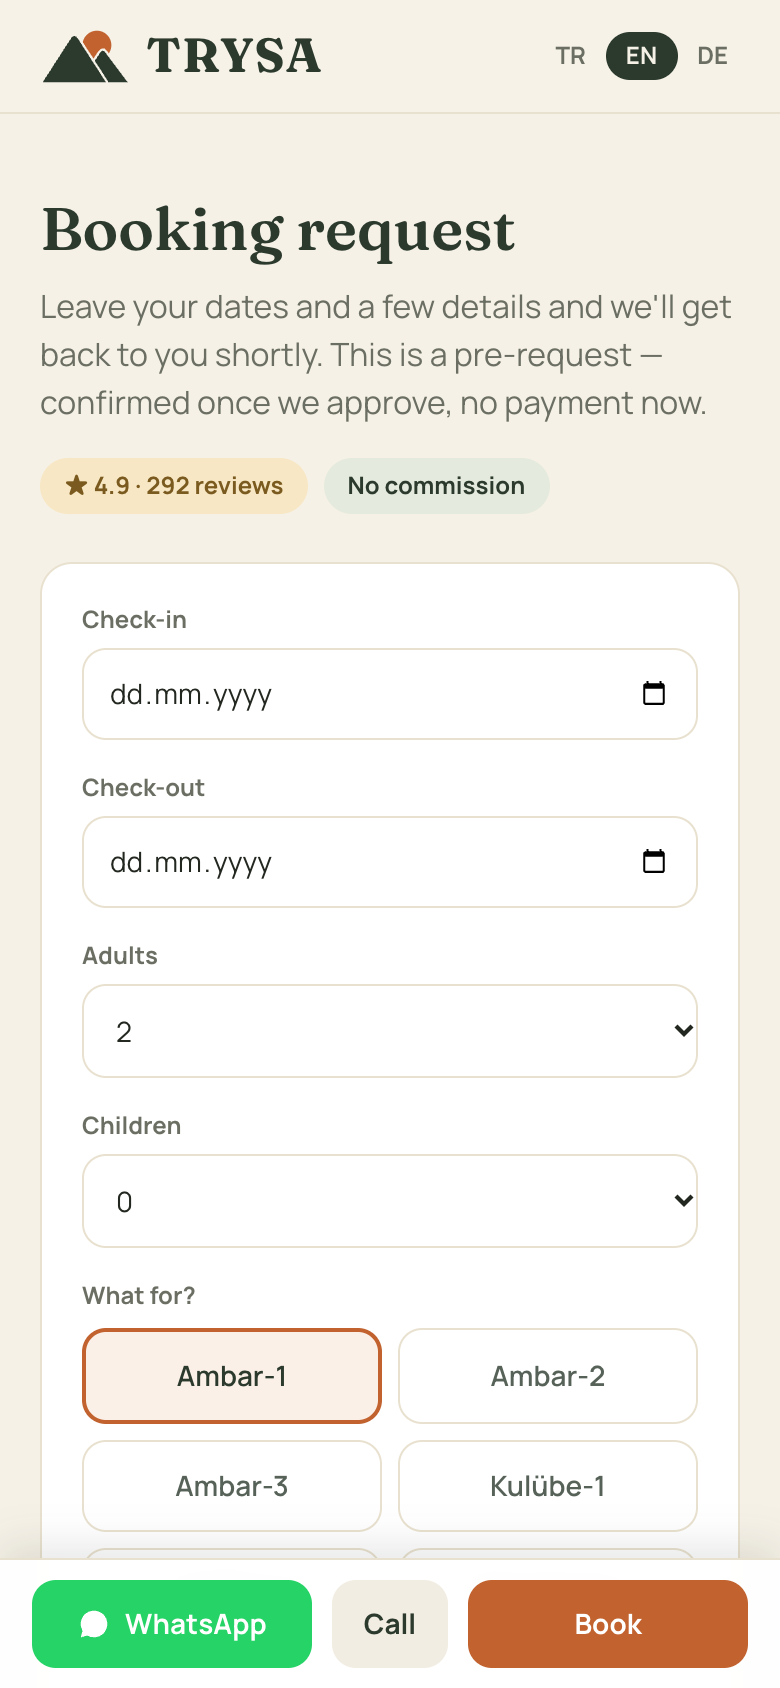
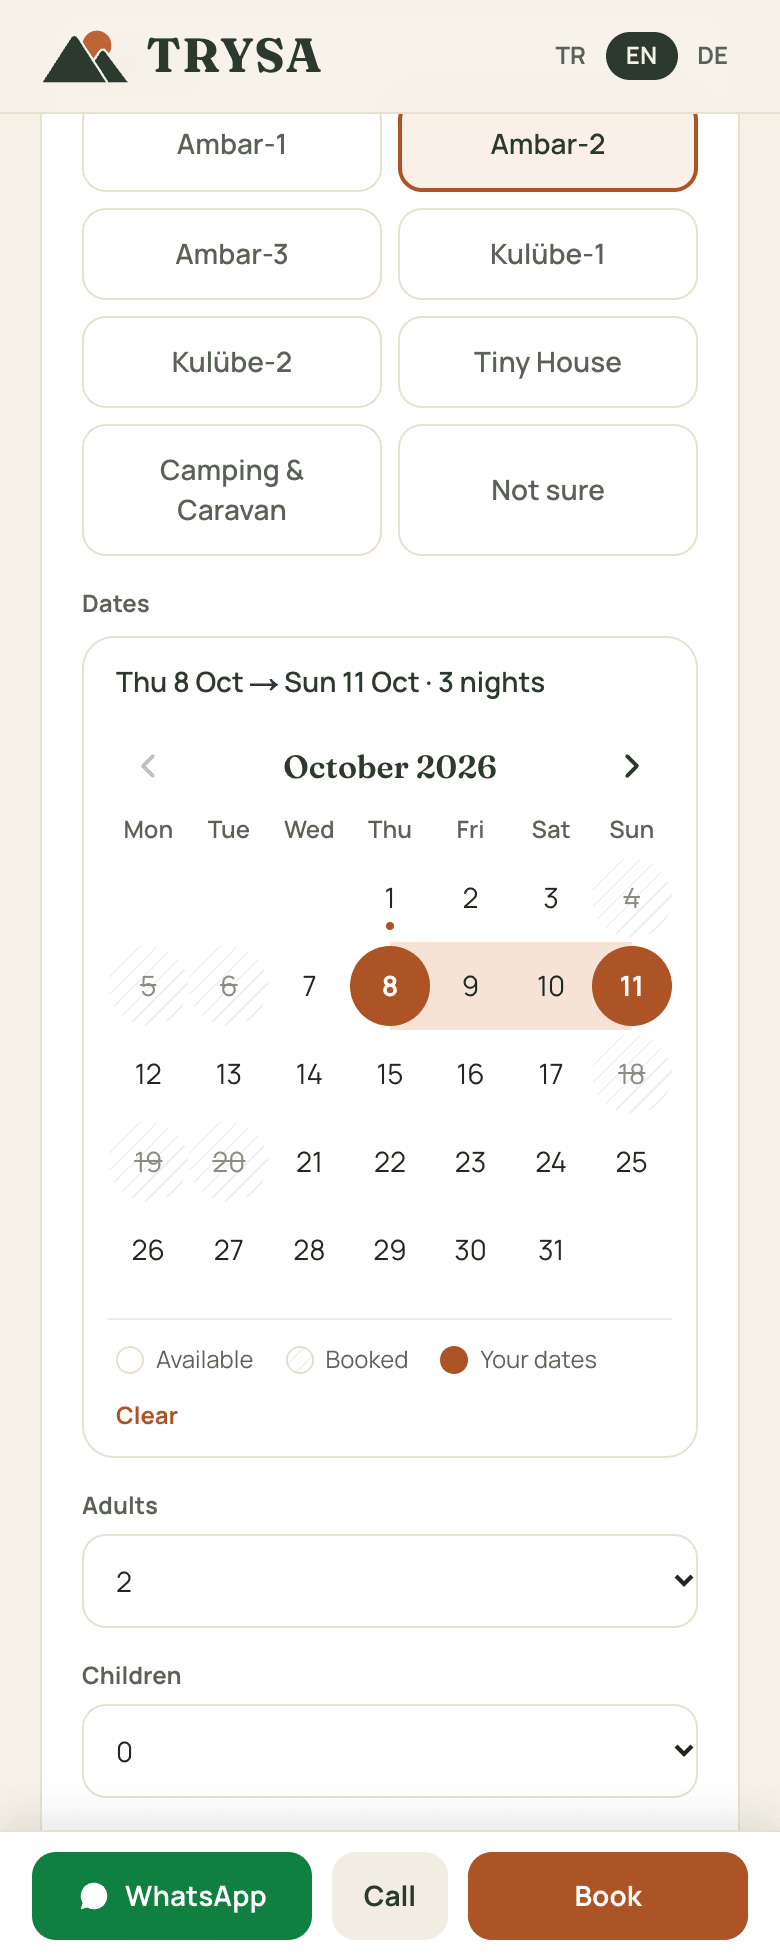
Update the README for the booking calendar
The screenshot uses fictional Airbnb calendars, not real occupancy.

diff --git a/README.md b/README.md
@@ -27,7 +27,8 @@ I built and run this on my own: gathered requirements with the family, chose the
 **For guests** (Turkish, English, German)
 
 - Rooms, restaurant menu, gallery, FAQ and the live Google rating and reviews
-- A booking request form where dates already taken on Airbnb or confirmed directly are blocked, and re-checked on the server
+- A booking form with an availability calendar per room: nights taken on Airbnb or confirmed directly are shown as booked, the stay can only end on the morning of the next booking, and the server re-checks on submit. Keyboard and screen-reader accessible (WAI-ARIA date grid)
+- Dates chosen on the home page or a room page carry over into the form
 - A request code, an optional WhatsApp hand-off and a branded receipt email in their language
 
 **For the family** (staff panel at `/panel`, mobile-first, installable as a PWA, in Turkish)
@@ -46,14 +47,14 @@ I built and run this on my own: gathered requirements with the family, chose the
     <td><img src="docs/screenshots/panel-detail.png" width="200" alt="Request detail with WhatsApp reply and room picker"></td>
     <td><img src="docs/screenshots/panel-calendar.png" width="200" alt="Monthly occupancy calendar: confirmed, pending and Airbnb"></td>
     <td><img src="docs/screenshots/panel-stats.png" width="200" alt="Statistics page"></td>
-    <td><img src="docs/screenshots/booking-mobile.png" width="200" alt="Guest booking form on a phone"></td>
+    <td><img src="docs/screenshots/booking-mobile.png" width="200" alt="Booking form: room choice and availability calendar with booked nights hatched"></td>
   </tr>
   <tr>
     <td align="center"><sub>Requests</sub></td>
     <td align="center"><sub>Request detail</sub></td>
     <td align="center"><sub>Occupancy calendar</sub></td>
     <td align="center"><sub>Statistics</sub></td>
-    <td align="center"><sub>Guest form</sub></td>
+    <td align="center"><sub>Availability calendar</sub></td>
   </tr>
 </table>
 
